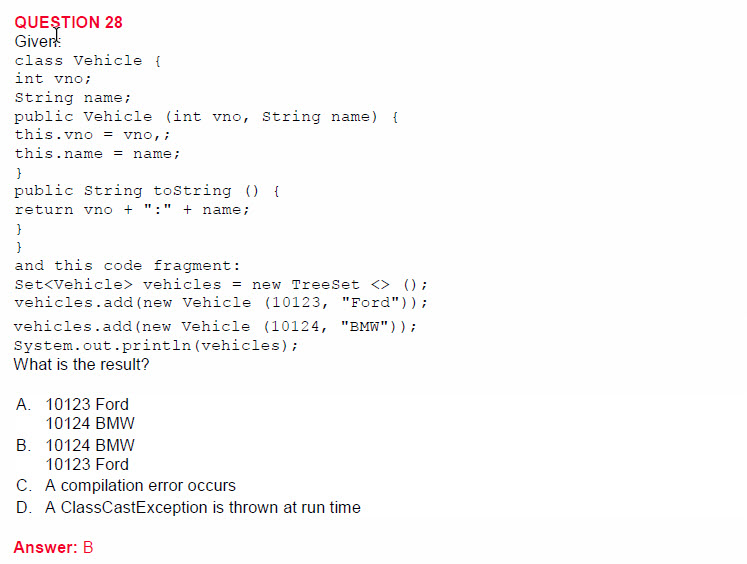
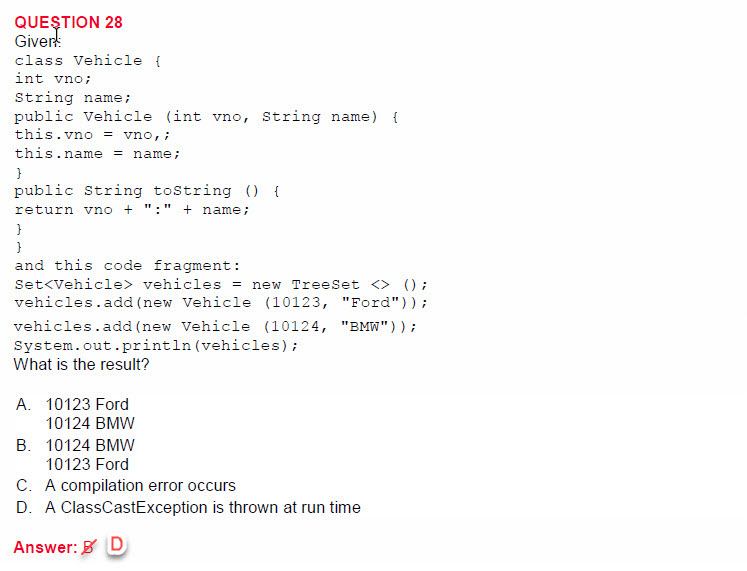
Merge pull request #170 from ChenZelta/master
Update ps Q014,Q028,Q042,Q056

diff --git a/src/main/java/com/wealth/certificate/dumps_1z0_809_ps/question014/Emp.java b/src/main/java/com/wealth/certificate/dumps_1z0_809_ps/question014/Emp.java
@@ -1,0 +1,39 @@
+package com.wealth.certificate.dumps_1z0_809_ps.question014;
+
+import java.util.Arrays;
+import java.util.Comparator;
+import java.util.List;
+import java.util.stream.Collectors;
+
+public class Emp
+{
+	String fName;
+	String lName;
+	public Emp (String fn, String ln) {
+		fName = fn;
+		lName = ln;
+	}
+	public String getfName() { return fName; }
+	public String getlName() { return lName; }
+	
+	public static void main(String[] args)
+	{
+		List<Emp> emp = Arrays.asList (
+			new Emp ("John", "Smith"),
+			new Emp ("Peter", "Sam"),
+			new Emp ("Thomas", "Wale"));
+		
+		emp.stream()
+		
+		//line n1
+		/*A.*/ .sorted (Comparator.comparing(Emp::getfName).reversed().thenComparing(Emp::getlName))
+		/*B.*/ //.sorted (Comparator.comparing(Emp::getfName).thenComparing(Emp::getlName))
+		/*C.*/ //.map(Emp::getfName).sorted(Comparator.reverseOrder())
+		/*D.*/ //.map(Emp::getfName).sorted(Comparator.reverseOrder().map(Emp::getlName).reserved
+		
+		.collect(Collectors.toList());
+
+		/** Answered : A is correct **/
+	}
+
+}

diff --git a/src/main/java/com/wealth/certificate/dumps_1z0_809_ps/question056/Foo.java b/src/main/java/com/wealth/certificate/dumps_1z0_809_ps/question056/Foo.java
@@ -1,0 +1,26 @@
+package com.wealth.certificate.dumps_1z0_809_ps.question056;
+
+import java.util.Comparator;
+import java.util.HashMap;
+import java.util.Map;
+import java.util.TreeMap;
+
+public class Foo {
+	public static void main (String [ ] args) {
+		Map<Integer, String> unsortMap = new HashMap< > ( );
+		unsortMap.put (10, "z");
+		unsortMap.put (5, "b");
+		unsortMap.put (1, "d");
+		unsortMap.put (7, "e");
+		unsortMap.put (50, "j");
+		Map<Integer, String> treeMap = new TreeMap <Integer, String> (new
+			Comparator<Integer> ( ) {
+				@Override public int compare (Integer o1, Integer o2) {return o2.compareTo(o1); } } );
+					treeMap.putAll (unsortMap);
+					for (Map.Entry<Integer, String> entry : treeMap.entrySet () ) {
+						System.out.print (entry.getValue () + " ");
+		}
+
+		/** Answered : C is correct. **/
+	}
+}

diff --git a/src/main/java/com/wealth/certificate/dumps_1z0_809_ps/question042/Test.java b/src/main/java/com/wealth/certificate/dumps_1z0_809_ps/question042/Test.java
@@ -1,0 +1,27 @@
+package com.wealth.certificate.dumps_1z0_809_ps.question042;
+
+import java.util.concurrent.atomic.AtomicInteger;
+
+class MyThread implements Runnable {
+	private static AtomicInteger count = new AtomicInteger (0);
+	public void run () {
+		int x = count.incrementAndGet();
+		System.out.print (x+" ");
+	}
+}
+
+public class Test
+{
+	public static void main(String[] args)
+	{
+		Thread thread1 = new Thread(new MyThread());
+		Thread thread2 = new Thread(new MyThread());
+		Thread thread3 = new Thread(new MyThread());
+		Thread [] ta = {thread1, thread2, thread3};
+		for (int x= 0; x < 3; x++) {
+			ta[x].start();
+		}
+		
+		/** Answered : B is incorrect, Correct is A print but not ordering because asynchronize thread. **/
+	}
+}

diff --git a/src/main/java/com/wealth/certificate/dumps_1z0_809_ps/question028/Test.java b/src/main/java/com/wealth/certificate/dumps_1z0_809_ps/question028/Test.java
@@ -1,0 +1,29 @@
+package com.wealth.certificate.dumps_1z0_809_ps.question028;
+
+import java.util.Set;
+import java.util.TreeSet;
+
+class Vehicle {
+	int vno;
+	String name;
+	public Vehicle (int vno, String name) {
+		this.vno = vno;
+		this.name = name;
+	}
+	public String toString () {
+		return vno + ":" + name;
+	}
+}
+
+public class Test
+{
+	public static void main(String[] args)
+	{
+		Set<Vehicle> vehicles = new TreeSet <> ();
+		vehicles.add(new Vehicle (10123, "Ford"));
+		vehicles.add(new Vehicle (10124, "BMW"));
+		System.out.println(vehicles);
+		
+		/** Answered : B is incorrect, Correct is D because using TreeSet so Vehicle must implements Comparable. **/
+	}
+}
